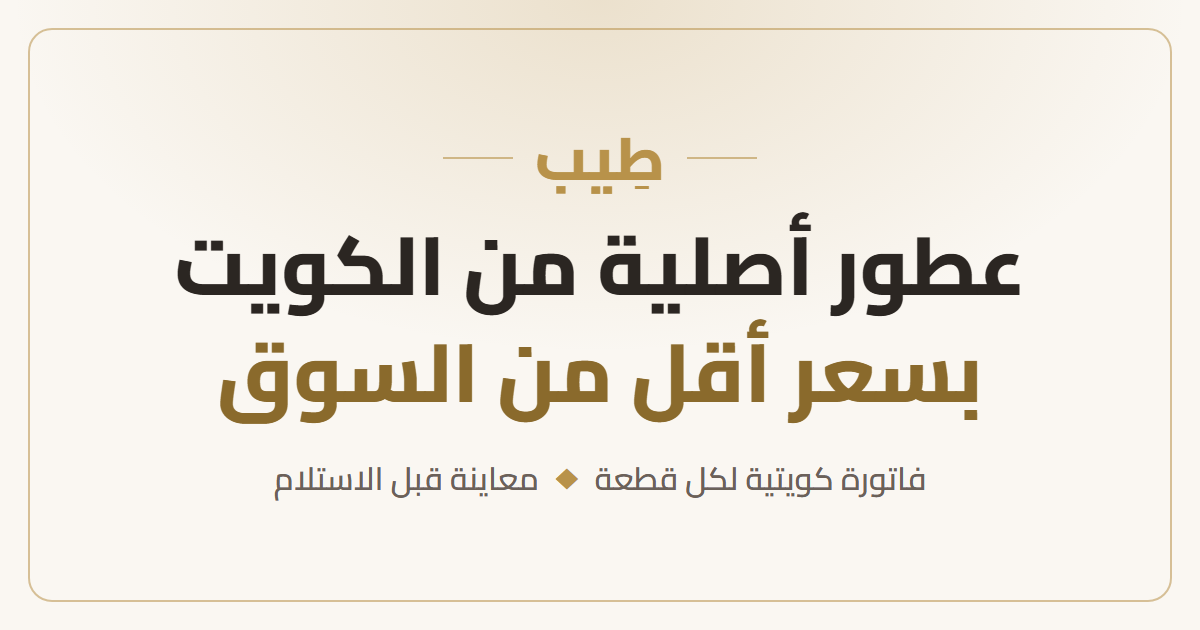
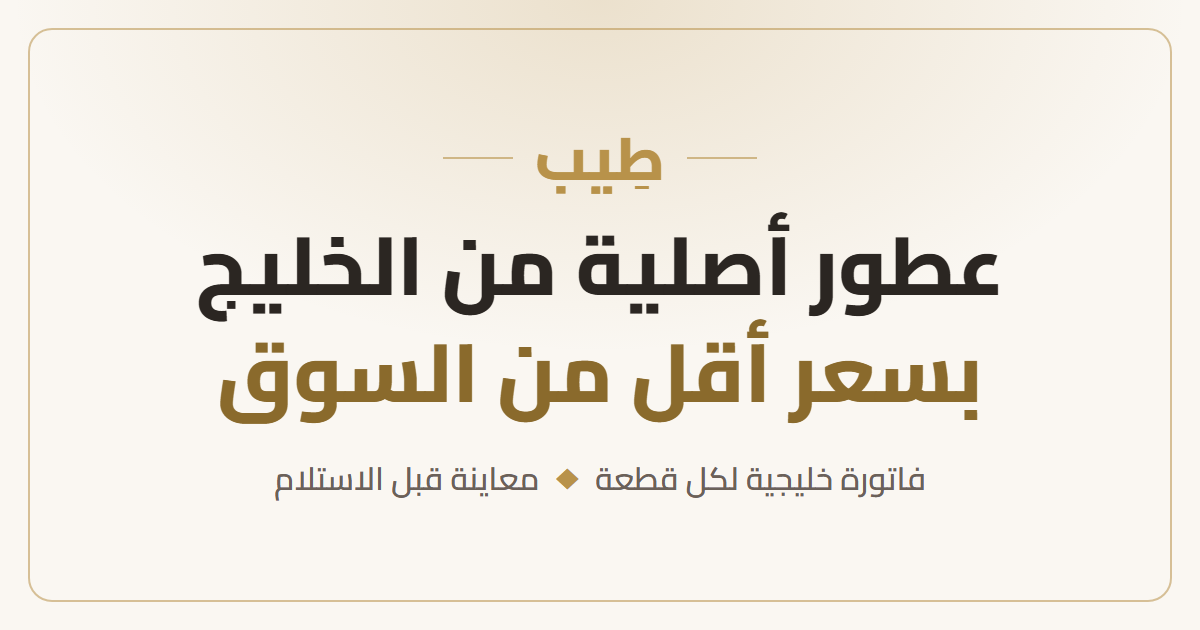
change the kuwait words

diff --git a/index.html b/index.html
@@ -20,8 +20,8 @@
   </script>
 
   <!-- ===== عنوان الصفحة ووصفها (بيظهروا في جوجل وفي تاب المتصفح) ===== -->
-  <title>طِيب | عطور أصلية من الكويت بسعر أقل من السوق</title>
-  <meta name="description" content="عطور وبكجات أصلية من الكويت بالحجز المسبق، بسعر أقل من السوق في مصر. كل قطعة معاها فاتورة الشراء، وبتعاينها قبل ما تدفع الباقي.">
+  <title>طِيب | عطور أصلية من الخليج بسعر أقل من السوق</title>
+  <meta name="description" content="عطور وبكجات أصلية من الخليج بالحجز المسبق، بسعر أقل من السوق في مصر. كل قطعة معاها فاتورة الشراء، وبتعاينها قبل ما تدفع الباقي.">
   <meta name="theme-color" content="#faf7f2">
 
   <!-- ===== Open Graph: شكل اللينك لما تبعته على واتساب أو إنستجرام أو فيسبوك ===== -->
@@ -29,8 +29,8 @@
   <meta property="og:type" content="website">
   <meta property="og:locale" content="ar_EG">
   <meta property="og:site_name" content="طِيب">
-  <meta property="og:title" content="طِيب | عطور أصلية من الكويت بسعر أقل من السوق">
-  <meta property="og:description" content="كل قطعة معاها فاتورة الشراء الكويتية، وبتعاينها قبل ما تدفع الباقي. احجز على واتساب.">
+  <meta property="og:title" content="طِيب | عطور أصلية من الخليج بسعر أقل من السوق">
+  <meta property="og:description" content="كل قطعة معاها فاتورة الشراء من الخليج، وبتعاينها قبل ما تدفع الباقي. احجز على واتساب.">
   <meta property="og:image" content="images/og-image.png">
   <meta property="og:image:width" content="1200">
   <meta property="og:image:height" content="630">
@@ -102,13 +102,13 @@
         <!-- شريط العروض: نصه بيتغير من أول script.js (offerBar و offerBarEn) -->
         <p class="offer-bar" id="offer-bar">
           <span class="offer-dot" aria-hidden="true"></span>
-          <span lang="ar" data-setting="offerBar">الحجز مفتوح دلوقتي على عروض الكويت</span>
-          <span lang="en" data-setting="offerBarEn">Pre-orders are open on current Kuwait offers</span>
+          <span lang="ar" data-setting="offerBar">الحجز مفتوح دلوقتي على عروض الخليج</span>
+          <span lang="en" data-setting="offerBarEn">Pre-orders are open on current Gulf offers</span>
         </p>
 
         <h1>
-          <span lang="ar">عطور أصلية من الكويت <span class="gold">بسعر أقل من السوق</span></span>
-          <span lang="en">Original perfumes from Kuwait <span class="gold">below market price</span></span>
+          <span lang="ar">عطور أصلية من الخليج <span class="gold">بسعر أقل من السوق</span></span>
+          <span lang="en">Original perfumes from the Gulf <span class="gold">below market price</span></span>
         </h1>
         <p class="hero-sub">
           <span lang="ar">كل قطعة معاها فاتورة الشراء، وبتعاينها قبل ما تدفع الباقي</span>
@@ -130,12 +130,12 @@
             <svg viewBox="0 0 24 24" fill="none" stroke="currentColor" stroke-width="1.8" stroke-linecap="round" stroke-linejoin="round"><path d="M5 2v20l2.33-1.5L9.67 22 12 20.5l2.33 1.5 2.34-1.5L19 22V2l-2.33 1.5L14.33 2 12 3.5 9.67 2 7.33 3.5Z"/><path d="M9 8h6M9 12h6M9 16h4"/></svg>
           </span>
           <div lang="ar">
-            <h3>فاتورة كويتية لكل قطعة</h3>
-            <p>بنبعتلك صورة القطعة مع فاتورة شرائها من الكويت</p>
+            <h3>فاتورة خليجية لكل قطعة</h3>
+            <p>بنبعتلك صورة القطعة مع فاتورة شرائها من الخليج</p>
           </div>
           <div lang="en">
-            <h3>Kuwaiti invoice for every piece</h3>
-            <p>We send you a photo of the piece with its purchase invoice from Kuwait</p>
+            <h3>Gulf invoice for every piece</h3>
+            <p>We send you a photo of the piece with its purchase invoice from the Gulf</p>
           </div>
         </div>
 
@@ -201,8 +201,8 @@
         <div class="section-head">
           <h2><span lang="ar">إزاي تطلب</span><span lang="en">How to order</span></h2>
           <p>
-            <span lang="ar">الحجز مسبق، وبنشتري القطعة مخصوص ليك من الكويت.</span>
-            <span lang="en">It’s a pre-order: we buy the piece in Kuwait especially for you.</span>
+            <span lang="ar">الحجز مسبق، وبنشتري القطعة مخصوص ليك من الخليج.</span>
+            <span lang="en">It’s a pre-order: we buy the piece in the Gulf especially for you.</span>
           </p>
         </div>
 
@@ -229,12 +229,12 @@
           </li>
           <li class="step">
             <div lang="ar">
-              <h3>بنشتريها من الكويت</h3>
-              <p>بنشتري القطعة من المتجر الرسمي في الكويت، ونبعتلك صورتها مع الفاتورة الكويتية.</p>
+              <h3>بنشتريها من الخليج</h3>
+              <p>بنشتري القطعة من المتجر الرسمي في الخليج، ونبعتلك صورتها مع فاتورة الشراء.</p>
             </div>
             <div lang="en">
-              <h3>We buy it in Kuwait</h3>
-              <p>We buy the piece from the official store in Kuwait and send you its photo with the Kuwaiti invoice.</p>
+              <h3>We buy it in the Gulf</h3>
+              <p>We buy the piece from the official store in the Gulf and send you its photo with the purchase invoice.</p>
             </div>
           </li>
           <li class="step">
@@ -292,14 +292,14 @@
         <div class="faq">
           <details>
             <summary><span lang="ar">العطور أصلية؟</span><span lang="en">Are the perfumes original?</span></summary>
-            <p lang="ar">أيوه، كلها أصلية. بنشتري كل قطعة بنفسنا من المتجر الرسمي في الكويت، وبنبعتلك صورتها مع فاتورة الشراء الكويتية قبل الشحن. ولما توصلك بتعاينها قبل ما تدفع الباقي.</p>
-            <p lang="en">Yes, all of them. We buy every piece ourselves from the official store in Kuwait, and send you its photo with the Kuwaiti purchase invoice before shipping. When it arrives, you inspect it before paying the rest.</p>
+            <p lang="ar">أيوه، كلها أصلية. بنشتري كل قطعة بنفسنا من المتجر الرسمي في الخليج، وبنبعتلك صورتها مع فاتورة الشراء قبل الشحن. ولما توصلك بتعاينها قبل ما تدفع الباقي.</p>
+            <p lang="en">Yes, all of them. We buy every piece ourselves from the official store in the Gulf, and send you its photo with the purchase invoice before shipping. When it arrives, you inspect it before paying the rest.</p>
           </details>
 
           <details>
             <summary><span lang="ar">التسليم بياخد قد إيه؟</span><span lang="en">How long does delivery take?</span></summary>
-            <p lang="ar">التسليم خلال <span data-setting="deliveryTime">3 أسابيع</span> من وقت دفع العربون، لأننا بنشتري القطعة مخصوص ليك من الكويت. وبنبعتلك صورة القطعة والفاتورة أول ما نشتريها.</p>
-            <p lang="en">Delivery is within <span data-setting="deliveryTimeEn">3 weeks</span> of paying the deposit, because we buy the piece in Kuwait especially for you. We send you its photo and invoice as soon as we buy it.</p>
+            <p lang="ar">التسليم خلال <span data-setting="deliveryTime">3 أسابيع</span> من وقت دفع العربون، لأننا بنشتري القطعة مخصوص ليك من الخليج. وبنبعتلك صورة القطعة والفاتورة أول ما نشتريها.</p>
+            <p lang="en">Delivery is within <span data-setting="deliveryTimeEn">3 weeks</span> of paying the deposit, because we buy the piece in the Gulf especially for you. We send you its photo and invoice as soon as we buy it.</p>
           </details>
 
           <details>
@@ -335,7 +335,7 @@
           <div lang="ar">
             <h3>قبل ما نشتري القطعة</h3>
             <ul>
-              <li>تقدر تلغي الحجز ويرجعلك العربون كامل، طالما لسه ما اشترناش القطعة من الكويت.</li>
+              <li>تقدر تلغي الحجز ويرجعلك العربون كامل، طالما لسه ما اشترناش القطعة من الخليج.</li>
             </ul>
 
             <h3>بعد ما نشتري القطعة</h3>
@@ -364,7 +364,7 @@
           <div lang="en">
             <h3>Before we buy the piece</h3>
             <ul>
-              <li>You can cancel and get your full deposit back, as long as we haven’t bought the piece in Kuwait yet.</li>
+              <li>You can cancel and get your full deposit back, as long as we haven’t bought the piece in the Gulf yet.</li>
             </ul>
 
             <h3>After we buy the piece</h3>
@@ -402,8 +402,8 @@
     <div class="container">
       <p class="footer-logo"><span lang="ar">طِيب</span><span lang="en">Teeb</span></p>
       <p class="footer-note">
-        <span lang="ar">منتجات أصلية مستوردة من الكويت، ومش وكيل رسمي</span>
-        <span lang="en">Original products imported from Kuwait. We are not an official agent.</span>
+        <span lang="ar">منتجات أصلية مستوردة من الخليج، ومش وكيل رسمي</span>
+        <span lang="en">Original products imported from the Gulf. We are not an official agent.</span>
       </p>
 
       <!-- لينكات السوشيال: بتتغير من أول script.js (SETTINGS) -->

diff --git a/script.js b/script.js
@@ -13,8 +13,8 @@ const SETTINGS = {
   deliveryTimeEn: "3 weeks",
 
   // نص شريط العروض اللي فوق العنوان. لو عايز تخفيه خالص اكتب "" بس
-  offerBar: "الحجز مفتوح دلوقتي على عروض الكويت",
-  offerBarEn: "Pre-orders are open on current Kuwait offers",
+  offerBar: "الحجز مفتوح دلوقتي على عروض الخليج",
+  offerBarEn: "Pre-orders are open on current Gulf offers",
 
   // لينكات السوشيال
   instagram: "#",
@@ -50,7 +50,7 @@ const TEXT = {
     toLight: "الوضع العادي"
   },
   en: {
-    title: "Teeb | Original perfumes from Kuwait below market price",
+    title: "Teeb | Original perfumes from the Gulf below market price",
     order: "Order on WhatsApp",
     notify: "Notify me",
     available: "Pre-order open",
